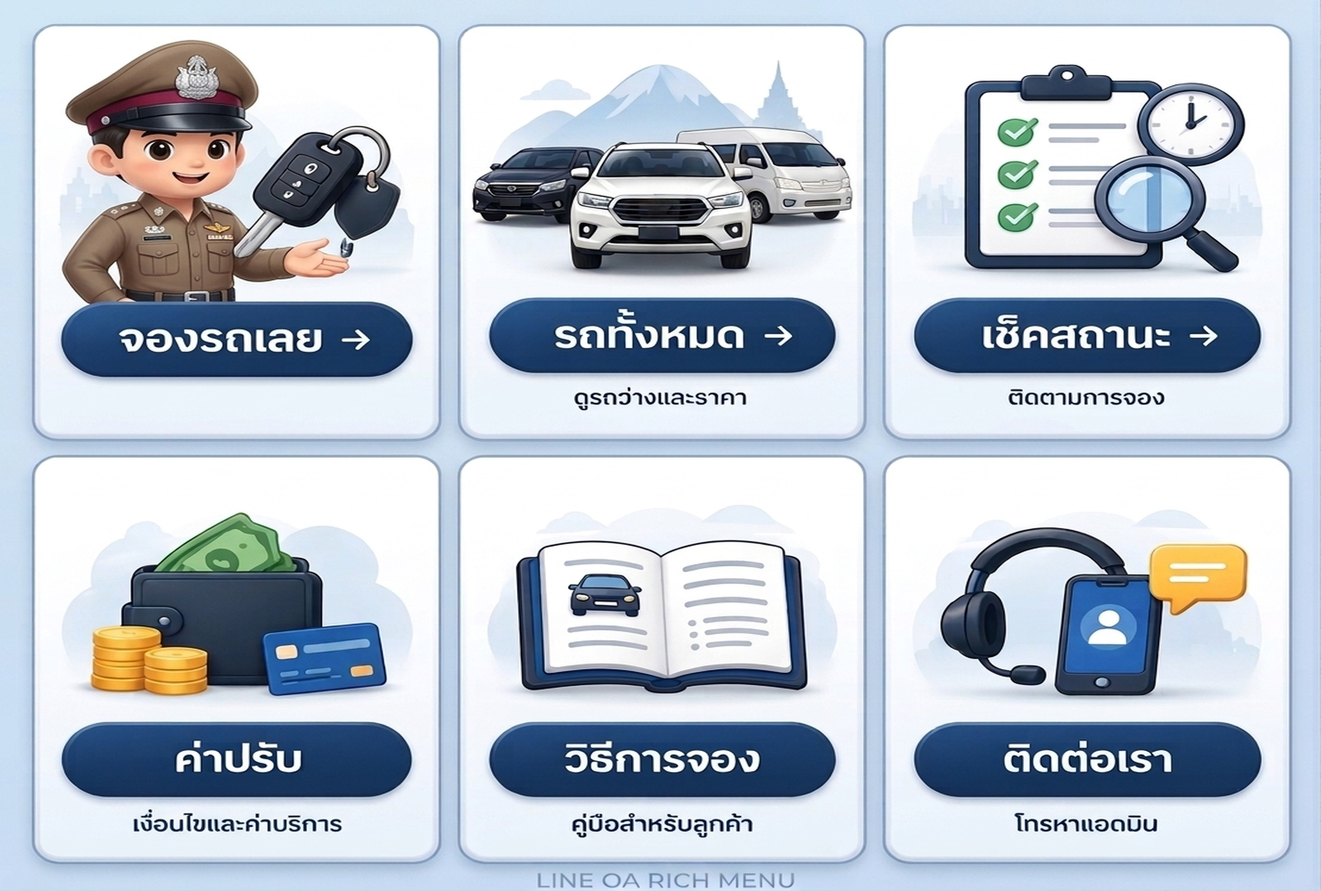
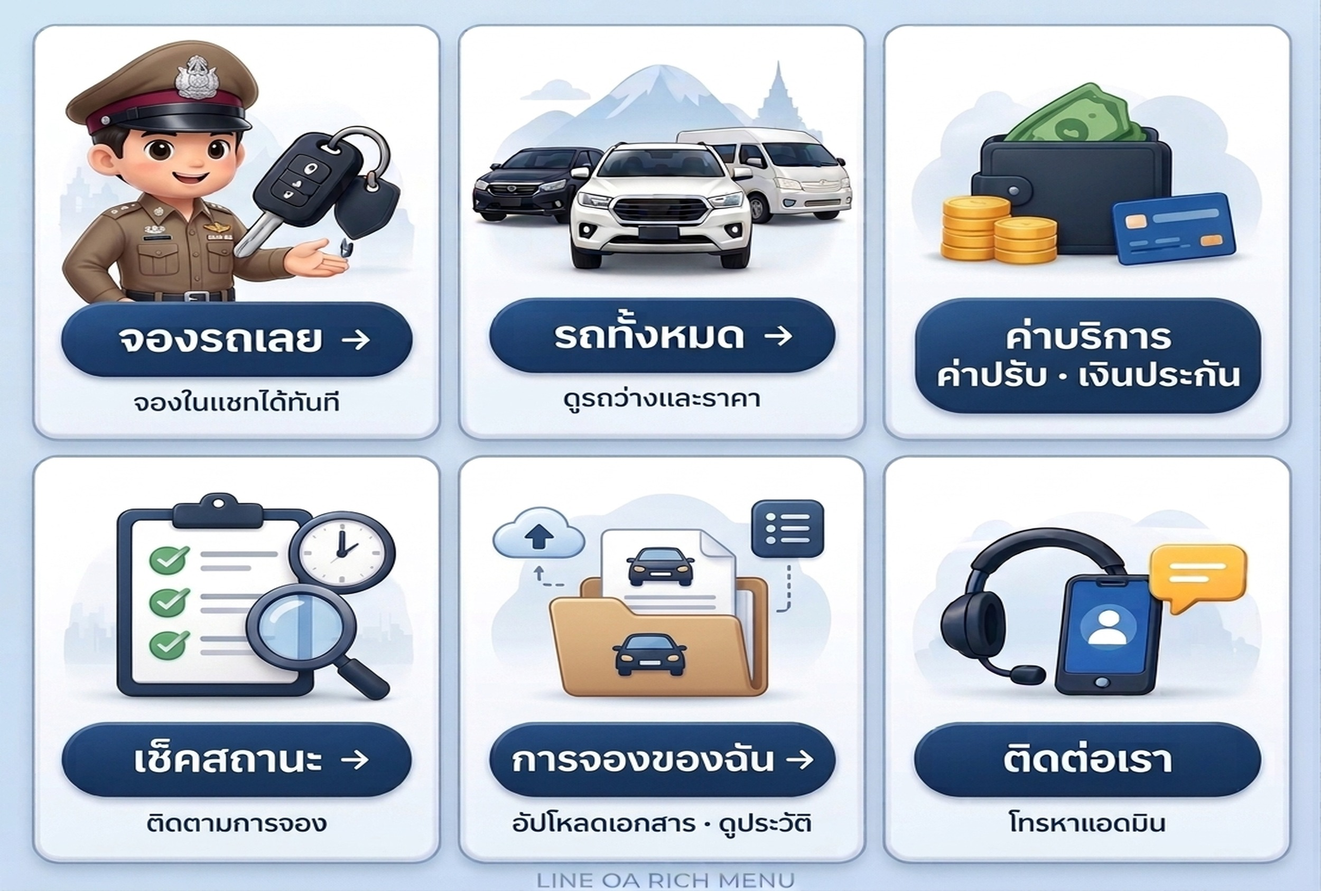
v0.5.6

diff --git a/app/line/book/LiffBooking.tsx b/app/line/book/LiffBooking.tsx
@@ -456,7 +456,7 @@ export default function LiffBooking({
 
       {/* เลือกจากปฏิทินด้านบน หรือกรอกวันตรงนี้ก็ได้ */}
       <div className="bg-white rounded-2xl border border-slate-200 p-4 grid grid-cols-1 min-[360px]:grid-cols-2 gap-3">
-        <div>
+        <div className="min-w-0">
           <label className="block text-sm font-medium text-slate-700 mb-1.5" htmlFor="sd">
             วันรับรถ
           </label>
@@ -473,7 +473,7 @@ export default function LiffBooking({
             className="w-full rounded-xl bg-white border border-slate-200 px-3 py-2.5 text-sm focus:outline-none focus:border-blue-500 focus:ring-4 focus:ring-blue-500/10"
           />
         </div>
-        <div>
+        <div className="min-w-0">
           <label className="block text-sm font-medium text-slate-700 mb-1.5" htmlFor="ed">
             วันคืนรถ
           </label>
@@ -486,10 +486,10 @@ export default function LiffBooking({
             className="w-full rounded-xl bg-white border border-slate-200 px-3 py-2.5 text-sm focus:outline-none focus:border-blue-500 focus:ring-4 focus:ring-blue-500/10"
           />
         </div>
-        <p className="col-span-2 -mt-1 text-xs text-slate-500">
+        <p className="col-span-full -mt-1 text-xs text-slate-500">
           เช่าวันเดียว ใส่วันเดียวกับวันรับรถได้เลย
         </p>
-        <div>
+        <div className="min-w-0">
           <label className="block text-sm font-medium text-slate-700 mb-1.5" htmlFor="st">
             เวลารับรถ
           </label>
@@ -512,7 +512,7 @@ export default function LiffBooking({
             </p>
           )}
         </div>
-        <div>
+        <div className="min-w-0">
           <label className="block text-sm font-medium text-slate-700 mb-1.5" htmlFor="et">
             เวลาคืนรถ
           </label>
@@ -539,7 +539,7 @@ export default function LiffBooking({
 
       {pickupPoints.length > 0 && (
         <div className="bg-white rounded-2xl border border-slate-200 p-4 grid grid-cols-1 min-[360px]:grid-cols-2 gap-3">
-          <div>
+          <div className="min-w-0">
             <label className="block text-sm font-medium text-slate-700 mb-1.5" htmlFor="pp">
               จุดรับรถ
             </label>
@@ -555,7 +555,7 @@ export default function LiffBooking({
               <option value={OTHER_PLACE}>{OTHER_PLACE}</option>
             </select>
           </div>
-          <div>
+          <div className="min-w-0">
             <label className="block text-sm font-medium text-slate-700 mb-1.5" htmlFor="rp">
               จุดคืนรถ
             </label>
@@ -571,7 +571,7 @@ export default function LiffBooking({
               <option value={OTHER_PLACE}>{OTHER_PLACE}</option>
             </select>
           </div>
-          <p className="col-span-2 text-xs text-slate-500">
+          <p className="col-span-full text-xs text-slate-500">
             ถ้าต้องการจุดอื่น เลือก “{OTHER_PLACE}” แล้วแอดมินจะติดต่อกลับไปนัดครับ
           </p>
         </div>

diff --git a/scripts/setup-richmenu.ts b/scripts/setup-richmenu.ts
@@ -46,22 +46,20 @@ const richMenu = {
   name: "เมนูหลัก - ระบบจองรถ",
   chatBarText: "เมนู",
   areas: [
-    // แถวบน — "จองรถ" เริ่มขั้นตอนจองในแชทเลย ไม่เด้งออกเว็บ
+    /* แถวบน — ก่อนจอง
+       "จองรถเลย" เริ่มขั้นตอนจองในแชทเลย ไม่เด้งออกเว็บ */
     {
       bounds: cell(0, 0),
       action: { type: "postback", label: "จองรถ", data: "action=start_booking", displayText: "จองรถ" },
     },
     { bounds: cell(1, 0), action: { type: "uri", label: "รถทั้งหมด", uri: `${SITE}/cars` } },
-    {
-      bounds: cell(2, 0),
-      action: { type: "message", label: "เช็คสถานะ", text: "เช็คสถานะ" },
-    },
-    // แถวล่าง — เรียงตามรูป: ค่าปรับ · วิธีการจอง · ติดต่อเรา
-    { bounds: cell(0, 1), action: { type: "uri", label: "ค่าปรับ", uri: `${SITE}/fees` } },
-    {
-      bounds: cell(1, 1),
-      action: { type: "uri", label: "วิธีการจอง", uri: `${SITE}/how-to-book` },
-    },
+    /* ค่าบริการตอบในแชทเลย เร็วกว่าเปิดเว็บ — คีย์เวิร์ด "ค่าปรับ" อยู่ใน webhook แล้ว */
+    { bounds: cell(2, 0), action: { type: "message", label: "ค่าบริการ", text: "ค่าปรับ" } },
+
+    /* แถวล่าง — หลังจอง */
+    { bounds: cell(0, 1), action: { type: "message", label: "เช็คสถานะ", text: "เช็คสถานะ" } },
+    /* ทางเข้าอัปโหลดเอกสาร/ดูประวัติ — ต้อง login ด้วย LINE ที่หน้านี้ */
+    { bounds: cell(1, 1), action: { type: "uri", label: "การจองของฉัน", uri: `${SITE}/my` } },
     {
       bounds: cell(2, 1),
       action: { type: "message", label: "ติดต่อเรา", text: "ติดต่อแอดมิน" },

diff --git a/app/globals.css b/app/globals.css
@@ -334,8 +334,23 @@ input[type="month"] {
      โดยเฉพาะในกริดสองคอลัมน์บนจอแคบ */
   min-width: 0;
   max-width: 100%;
+  /* บังคับให้กว้างตามช่องที่แม่ให้ ไม่ใช่ตามความกว้างธรรมชาติของตัวเอง
+     iOS ใน LIFF คิดความกว้าง input วันที่จากรูปแบบวันที่เต็ม ซึ่งกว้างกว่าคอลัมน์ */
+  width: 100%;
   box-sizing: border-box;
   text-overflow: ellipsis;
+}
+
+/* ต้นเหตุจริงของช่องวันที่ล้นจอในกริดสองคอลัมน์:
+   ลูกของ grid/flex มีค่าเริ่มต้น min-width:auto จึงหดต่ำกว่าความกว้างธรรมชาติ
+   ของลูกไม่ได้ คอลัมน์เลยถูกดันจนกริดทะลุการ์ด แม้ตัว input จะตั้ง max-width:100% แล้ว
+   กฎนี้ปลดล็อกเฉพาะกล่องที่ห่อช่องพวกนี้อยู่ ไม่กระทบกริดอื่น */
+:where(.grid, .flex) > :has(> select),
+:where(.grid, .flex) > :has(> input[type="date"]),
+:where(.grid, .flex) > :has(> input[type="time"]),
+:where(.grid, .flex) > :has(> input[type="datetime-local"]),
+:where(.grid, .flex) > :has(> input[type="month"]) {
+  min-width: 0;
 }
 
 /* iOS จัดค่าในช่องวันที่ไว้กึ่งกลาง ทำให้ชนไอคอนแม้เว้น padding แล้ว */

diff --git a/app/api/line/webhook/route.ts b/app/api/line/webhook/route.ts
@@ -232,7 +232,7 @@ async function handleEvent(event: LineEvent) {
       });
 
       if (booking) {
-        await replyMessage(replyToken, formatBooking(booking));
+        await replyMessage(replyToken, formatBooking(booking, site));
         return;
       }
     }
@@ -271,7 +271,7 @@ async function handleEvent(event: LineEvent) {
       return;
     }
 
-    await replyMessage(replyToken, formatBooking(booking));
+    await replyMessage(replyToken, formatBooking(booking, site));
     return;
   }
 
@@ -290,7 +290,7 @@ type BookingForDisplay = {
   deposit: { status: string } | null;
 };
 
-function formatBooking(booking: BookingForDisplay) {
+function formatBooking(booking: BookingForDisplay, site: string) {
   const lines = [
     `📋 การจอง ${booking.id.slice(0, 8).toUpperCase()}`,
     "",
@@ -310,6 +310,10 @@ function formatBooking(booking: BookingForDisplay) {
   } else {
     lines.push("", "✅ ยืนยันค่าจองเรียบร้อยแล้ว");
   }
+
+  // ลิงก์เข้าหน้าการจอง — ที่เดียวที่อัปโหลดเอกสารได้ เดิมไม่มีลิงก์เลย
+  // ลูกค้าเลยหาทางส่งเอกสารไม่เจอ ต้องไถหาลิงก์เก่าในแชทเอง
+  lines.push("", "ดูรายละเอียดและส่งเอกสาร:", `${site}/booking/${booking.id}`);
 
   return lines.join("\n");
 }

diff --git a/app/cars/[id]/book/BookingForm.tsx b/app/cars/[id]/book/BookingForm.tsx
@@ -265,7 +265,7 @@ export default function BookingForm({
         </p>
 
         <div className="grid sm:grid-cols-2 gap-4 mt-4">
-          <div>
+          <div className="min-w-0">
             <label className={labelClass} htmlFor="startTime">เวลารับรถ</label>
             <select
               id="startTime"
@@ -325,7 +325,7 @@ export default function BookingForm({
                 <option value={OTHER_PLACE}>{OTHER_PLACE}</option>
               </select>
             </div>
-            <p className="sm:col-span-2 text-xs text-slate-500 -mt-1">
+            <p className="sm:col-span-full text-xs text-slate-500 -mt-1">
               ถ้าต้องการจุดอื่นนอกรายการ เลือก “{OTHER_PLACE}” แล้วแอดมินจะติดต่อกลับไปนัดจุดรับ-ส่งครับ
             </p>
           </div>
